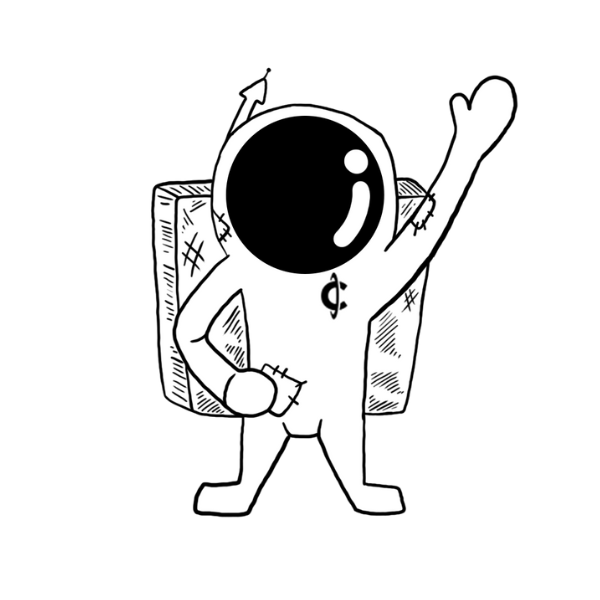
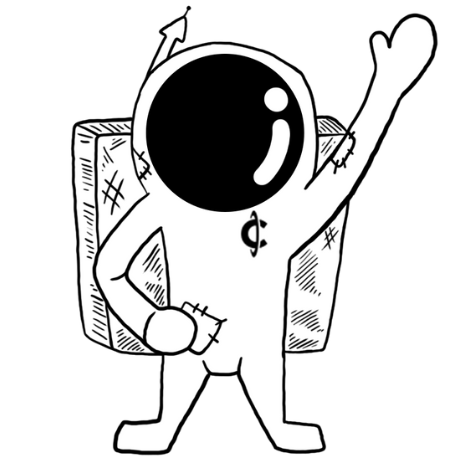
spacing tweaks for home page

Changed region(s): [[0.1556, 0.0, 0.9956, 0.9914], [0.5911, 0.9313, 0.6222, 0.9614]]

diff --git a/apps/connect/components/home/HomePage.tsx b/apps/connect/components/home/HomePage.tsx
@@ -18,7 +18,7 @@ export function HomePage() {
       sx={{
         display: 'flex',
         flexDirection: 'column',
-        gap: { xs: 0, md: 4 },
+        gap: 4,
         justifyContent: { xs: 'space-evenly', md: 'normal' },
         alignItems: 'center',
         height: '100%'
@@ -26,11 +26,10 @@ export function HomePage() {
     >
       <Image
         src='/images/geral_waving.png'
-        width={400}
+        width={300}
         height={200}
         sizes='100vw'
         style={{
-          width: '100%',
           maxWidth: '400px',
           height: 'auto'
         }}

diff --git a/apps/sunnyawards/components/home/HomePage.tsx b/apps/sunnyawards/components/home/HomePage.tsx
@@ -18,7 +18,7 @@ export function HomePage() {
       sx={{
         display: 'flex',
         flexDirection: 'column',
-        gap: { xs: 0, md: 6 },
+        gap: 4,
         my: { xs: 0, md: 4 },
         justifyContent: { xs: 'space-evenly', md: 'normal' },
         alignItems: 'center',

diff --git a/@connect-shared/components/layout/Template.tsx b/@connect-shared/components/layout/Template.tsx
@@ -44,6 +44,7 @@ export function Template({ children }: { children: ReactNode }) {
   return (
     <AnimatePresence mode='wait'>
       <motion.div
+        style={{ height: '100%' }}
         key={key}
         initial='hidden'
         animate='enter'
